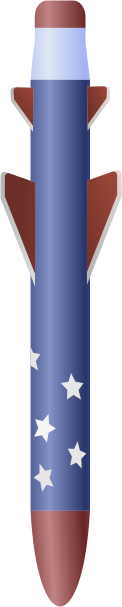
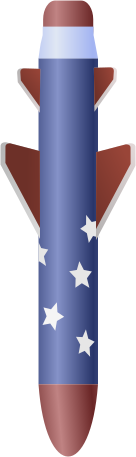
bomba i js

Changed region(s): [[0.0, 0.0, 1.0, 0.9803], [0.5164, 0.5514, 0.6885, 0.674], [0.3934, 0.9803, 0.4918, 1.0]]

diff --git a/js/scenes/Aterratje_afortunat.js b/js/scenes/Aterratje_afortunat.js
@@ -57,6 +57,7 @@ class GameScene extends Phaser.Scene {
         this.plataforma.setImmovable(true);
         this.plataforma.setCollideWorldBounds(true);
         this.plataforma.setInteractive();
+        this.plataforma.setScale(0.5)
         this.input.on('pointermove', this.movePlataforma, this);
         this.input.keyboard.on('keydown-ESC', this.showMiniScreen, this);
         this.input.keyboard.on('keydown-B', this.compraMillora, this);
@@ -114,7 +115,8 @@ class GameScene extends Phaser.Scene {
     createBombas() {
         var x = Phaser.Math.Between(30, this.sys.game.config.width-30);
         var object = this.bombas.create(x, 0, 'bomba');
-        object.setScale(0.2);
+        object.setScale(0.4
+            );
         object.setVelocityY(this.velocitat);
         object.setInteractive();
         this.physics.add.overlap(this.plataforma, object, this.handleCollisionB, null, this);
